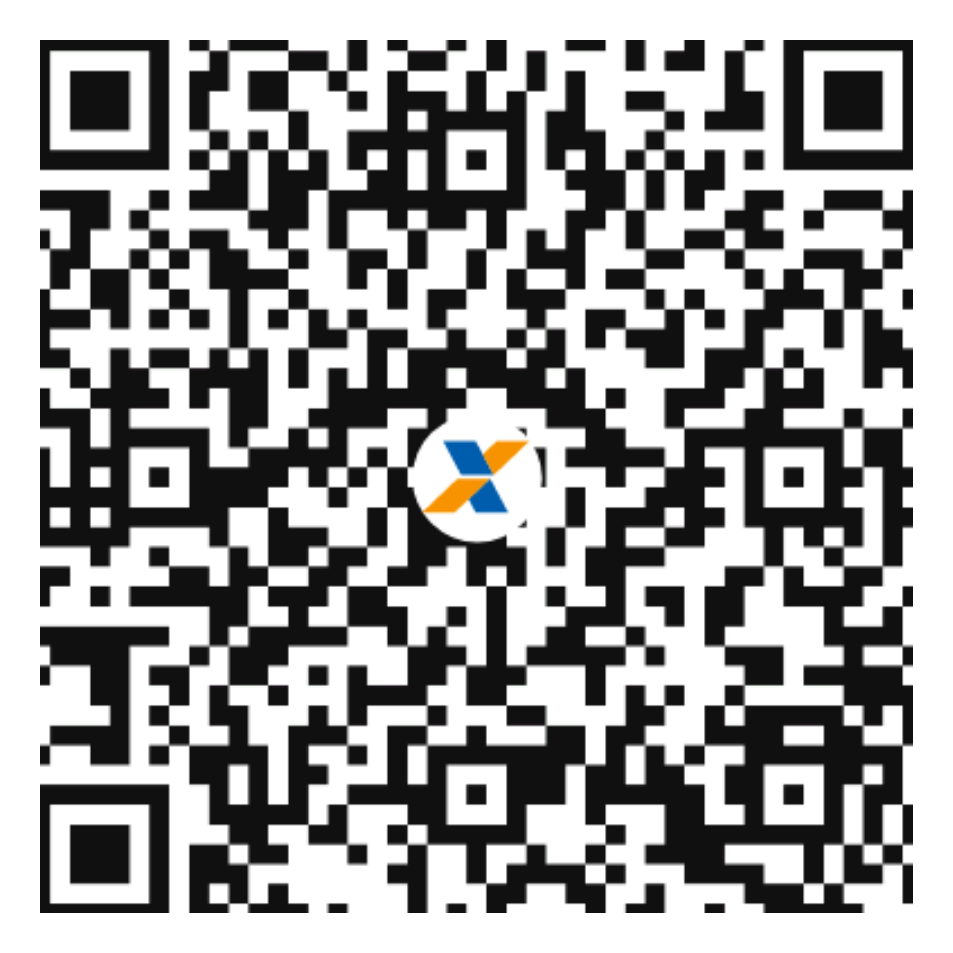
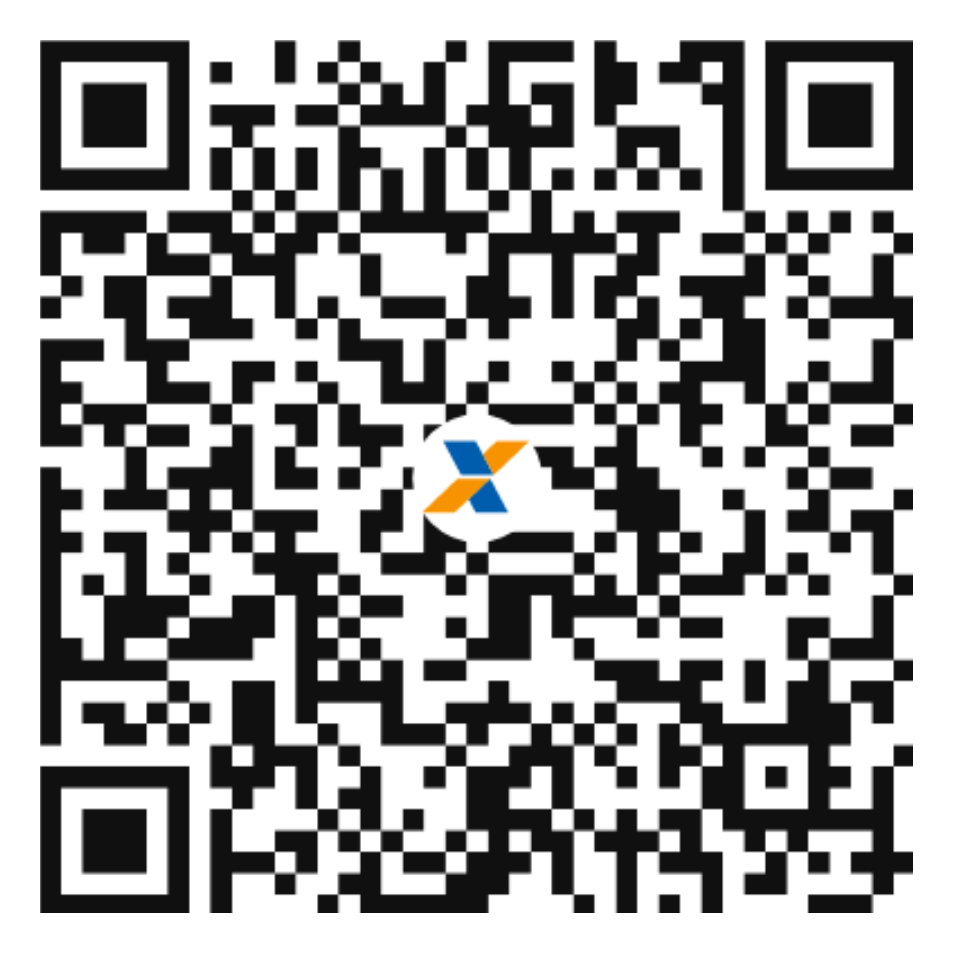
Embed full PIX QR + copia-cola on NIM landing
Replace truncated payloads; R$100 uses decodable qr_0 (qr_3 failed decode).

diff --git a/nim/index.html b/nim/index.html
@@ -3,7 +3,7 @@
 <head>
 <meta charset="utf-8"/>
 <meta name="viewport" content="width=device-width, initial-scale=1"/>
-<title>Demo NVIDIA NIM — smoke & relatórios</title>
+<title>Demo NVIDIA NIM - smoke e relatorios</title>
 <style>
 body{font-family:system-ui,sans-serif;max-width:720px;margin:2rem auto;padding:0 1rem;line-height:1.45;color:#111}
 h1{font-size:1.4rem} h2{font-size:1.1rem;margin-top:1.6rem}
@@ -11,15 +11,16 @@ h1{font-size:1.4rem} h2{font-size:1.1rem;margin-top:1.6rem}
 .price{font-size:1.3rem;font-weight:700}
 .muted{color:#555;font-size:.9rem}
 code,pre{background:#f4f4f5;padding:.15rem .35rem;border-radius:4px;font-size:.85rem}
-pre{padding:.75rem;overflow:auto;white-space:pre-wrap}
-img.qr{width:220px;height:220px;image-rendering:pixelated;border:1px solid #eee}
+pre.pix{padding:.75rem;overflow:auto;white-space:pre-wrap;word-break:break-all}
+img.qr{width:220px;height:220px;image-rendering:pixelated;border:1px solid #eee;display:block}
 .grid{display:grid;gap:1rem;grid-template-columns:1fr}
 @media(min-width:640px){.grid{grid-template-columns:1fr 1fr}}
+button.copy{margin-top:.5rem;padding:.4rem .75rem;border-radius:8px;border:1px solid #ccc;background:#fff;cursor:pointer}
 </style>
 </head>
 <body>
 <h1>Demo NVIDIA NIM (API catalog free-tier)</h1>
-<p class="muted">Smoke inference · lista viva de modelos · relatório HTTP — prototipagem (Developer Program). Não é licença Enterprise de produção.</p>
+<p class="muted">Smoke inference · lista viva de modelos · relatorio HTTP — prototipagem (Developer Program). Nao e licenca Enterprise de producao. Independente — sem endosso NVIDIA.</p>
 
 <div class="grid">
   <div class="card">
@@ -27,29 +28,43 @@ img.qr{width:220px;height:220px;image-rendering:pixelated;border:1px solid #eee}
     <ul>
       <li><code>GET /v1/models</code> resumido</li>
       <li>1× <code>chat/completions</code> no ID live</li>
-      <li>Relatório HTTP / usage (sem secrets)</li>
+      <li>Relatorio HTTP / usage (sem secrets)</li>
     </ul>
-    <p><img class="qr" src="assets/pix_r50.png" alt="PIX R$50"/></p>
-    <p class="muted">PIX Luiz — copia e cola:</p>
-    <pre>00020126330014br.gov.bcb.pix011108030362994520400005303986540550.005802BR5920LUIZ</pre>
+    <p><img class="qr" src="assets/pix_r50.png" alt="PIX QR R$50"/></p>
+    <p class="muted">PIX Luiz — copia e cola (completo):</p>
+    <pre class="pix" id="pix50">00020126330014br.gov.bcb.pix011108030362994520400005303986540550.005802BR5920LUIZ GUSTAVO CORREIA6009SAO PAULO62080504Pack63044E58</pre>
+    <button class="copy" type="button" data-target="pix50" data-label="Copiar PIX R$50">Copiar PIX R$50</button>
   </div>
   <div class="card">
     <h2>Demo+ — <span class="price">R$&nbsp;100</span></h2>
     <ul>
       <li>Tudo do Smoke</li>
-      <li>Até 3 prompts no teu caso (reasoning/agentic)</li>
-      <li>Notas de limites só com UI/docs oficiais</li>
+      <li>Ate 3 prompts no teu caso (reasoning/agentic)</li>
+      <li>Notas de limites so com UI/docs oficiais</li>
     </ul>
-    <p><img class="qr" src="assets/pix_r100.png" alt="PIX R$100"/></p>
-    <p class="muted">PIX Luiz — copia e cola:</p>
-    <pre>00020126330014br.gov.bcb.pix0111080303629945204000053039865406100.005802BR5920LUIZ</pre>
+    <p><img class="qr" src="assets/pix_r100.png" alt="PIX QR R$100"/></p>
+    <p class="muted">PIX Luiz — copia e cola (completo):</p>
+    <pre class="pix" id="pix100">00020126330014br.gov.bcb.pix0111080303629945204000053039865406100.005802BR5920LUIZ GUSTAVO CORREIA6009SAO PAULO62090505Apoio6304C160</pre>
+    <button class="copy" type="button" data-target="pix100" data-label="Copiar PIX R$100">Copiar PIX R$100</button>
   </div>
 </div>
 
-<h2>Prova round1 (já corrida)</h2>
+<h2>Prova round1 (ja corrida)</h2>
 <p>ID: <code>nvidia/nemotron-3-super-120b-a12b</code> · HTTP 200 · usage prompt=35 completion=113</p>
-<pre>Um smoke test de API é um conjunto rápido de verificações básicas que confirma se a API está disponível, responde corretamente às chamadas essenciais e não apresenta falhas críticas após uma implantação ou alteração.</pre>
-<p class="muted">Prova round1: Super 120B HTTP 200.</p>
-<p class="muted">Sem top-up. USD/Binance só com autorização do Luiz.</p>
+<pre>Um smoke test de API e um conjunto rapido de verificacoes basicas que confirma se a API esta disponivel, responde corretamente as chamadas essenciais e nao apresenta falhas criticas apos uma implantacao ou alteracao.</pre>
+<p class="muted">Prova round1: Super 120B HTTP 200. Sem top-up. USD/Binance so com autorizacao do Luiz.</p>
+<script>
+document.querySelectorAll("button.copy").forEach(function(btn){
+  btn.addEventListener("click", function(){
+    var el = document.getElementById(btn.getAttribute("data-target"));
+    var t = el.textContent.trim();
+    navigator.clipboard.writeText(t).then(function(){
+      var label = btn.getAttribute("data-label");
+      btn.textContent = "Copiado";
+      setTimeout(function(){ btn.textContent = label; }, 1500);
+    });
+  });
+});
+</script>
 </body>
 </html>

diff --git a/README.md b/README.md
@@ -1,5 +1,9 @@
 # Pagamento A.N.E
 
-Pagina publica de recebimento: Pix em BRL.
+Pagina publica de recebimento Pix em BRL (QR + copia-cola).
 
-Nao extraia nem publique a chave Pix em texto. O QR e a imagem na pagina.
+## NVIDIA NIM (demo / smoke)
+
+https://ziuluiziul.github.io/ane-pagamento/nim/
+
+Pacotes R$50 / R$100. Independente — nao e endosso NVIDIA.
